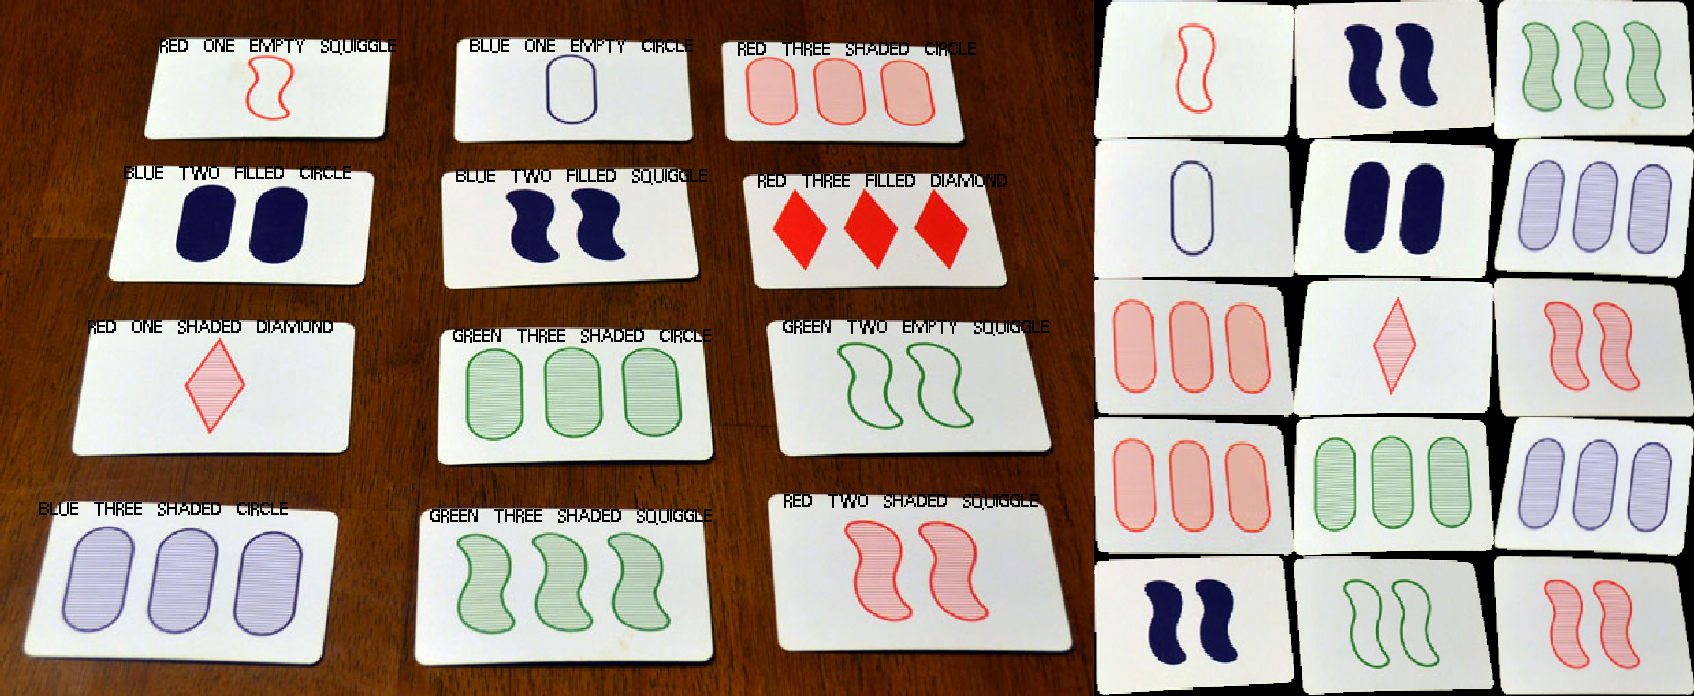
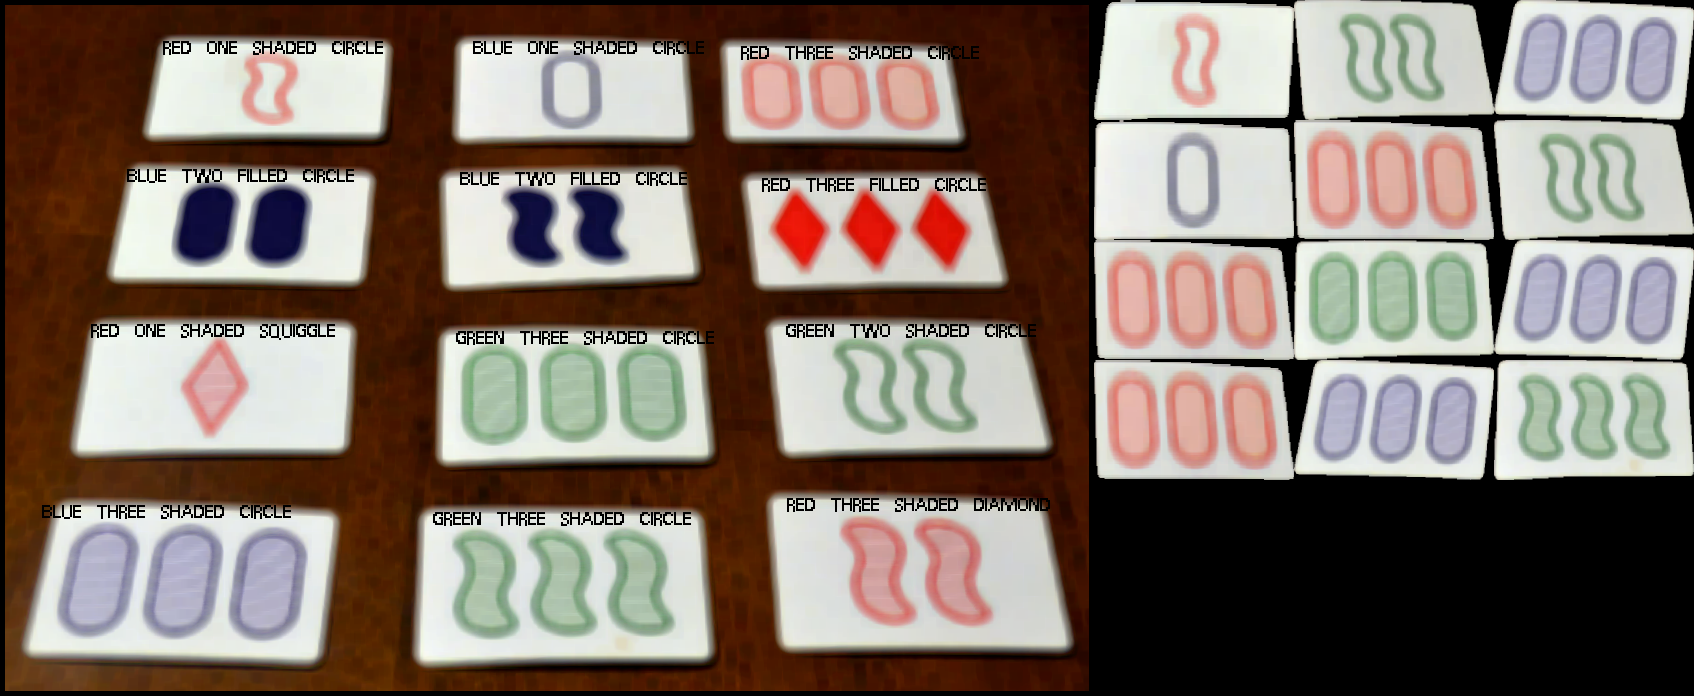
Deleted old files added convolutions

diff --git a/src/highlight.java b/src/highlight.java
@@ -1,7 +1,3 @@
-
-import java.util.ArrayList;
-
-
 public class highlight {
     
     final static int totalSize = 762048;
@@ -9,35 +5,20 @@ public class highlight {
     public static int[][] prepareImage(int[][] grid) {
         double divide = Math.sqrt(totalSize / (double) (grid.length * grid[0].length));
         Scaler scaler = new Scaler((int) (divide * grid[0].length), (int) (divide * grid.length));
-        
-        return scaler.processImage(grid);
-    }
 
-    public static int[] getAvgSquare(PixelArea area, short[][] red, short[][] green, short[][] blue){
-        int[] avgCol = {0,0,0};
-        int counted = 0;
+        grid = scaler.processImage(grid);
 
-        for(int y = 0; y < area.pixelSquare[0].length; y++){
-            for(int x = 0; x < area.pixelSquare[0][0].length; x++){
+        short[][][] sg = Image.convert(grid);
 
-                short r = area.pixelSquare[0][y][x];
-                short g = area.pixelSquare[1][y][x];
-                short b = area.pixelSquare[2][y][x];
-
-                if (r + g + b == 0) continue;
-                counted++;
-
-                avgCol[0] += r;
-                avgCol[1] += g;
-                avgCol[2] += b;
-            }
+        short[][] blank = new short[grid.length][grid[0].length];
+                
+        for (int[] loc : ritikareadetection.floodDetection(sg[0], sg[1], sg[2], blank, blank, new int[]{0, 0}, Color.int2sarr(grid[0][0]), new int[]{1, 1, 1}, 1, new int[]{234, 234, 234}, false).pixelLocations) {
+            grid[loc[1]][loc[0]] = Color.rgb2int(100, 100, 100);
         }
 
-        avgCol[0] /= counted;
-        avgCol[1] /= counted;
-        avgCol[2] /= counted;
+        grid = Blurer.applyBlur(grid, 1);
 
-        return avgCol;
+        return grid;
     }
 
     public static int[] getAvg(PixelArea area, short[][] red, short[][] green, short[][] blue){
@@ -112,30 +93,6 @@ public class highlight {
 
 
         return avg/count;
-    }
-
-    public void fillArea(short[][] red, short[][] green, short[][] blue, ArrayList<int[]> pixels, short[] color){
-
-        for(int i = 0; i < pixels.size(); i++){
-
-            int[] loc = pixels.get(i);
-
-            red[loc[1]][loc[0]] = color[0];
-            green[loc[1]][loc[0]] = color[1];
-            blue[loc[1]][loc[0]] = color[2];
-
-        }
-
-
-    }
-
-    public static String getShape(double r, double[] n, String[] s){
-
-        for(int a = 0; a < n.length; a++){
-            if(r < n[a]) return s[a];
-        }
-
-        return s[s.length-1];
     }
 
 }

diff --git a/src/ritikareadetection.java b/src/ritikareadetection.java
@@ -92,6 +92,20 @@ public class ritikareadetection{
     }
 
 
+    /**
+     * Flooding algortithm
+     * @param red a short[][] containing red values of image
+     * @param green a short[][] containing green values of image
+     * @param blue a short[][] containing blue values of image
+     * @param copy a short[][], where results are stored
+     * @param badpixels a short[][] of pixels to avoid in detection
+     * @param start (x, y) loc where to start the algorithim
+     * @param color short[] representing a color for base color
+     * @param colorVariance how much the color can vary before it cuts off
+     * @param neighborSize how many pixels it can "skip over"
+     * @param adjacents i.e diagonal neighbors
+     * @return Pixel area of detected area
+     */
     public static PixelArea floodDetection(short[][] red, short[][] green, short[][] blue, short[][] copy, short[][] badpixels, int[] start, short[] color, int[] colorVariance, int neighborSize, boolean adjacents){
         //note it's not really the flood fill algorithm
         //flood is a good name for what i'm doing thuogh
@@ -235,6 +249,14 @@ public class ritikareadetection{
 
     }
 
+    public static PixelArea floodDetection(short[][] red, short[][] green, short[][] blue, short[][] copy, short[][] badpixels, int[] start, short[] color, int[] colorVariance, int neighborSize, int[] colorRatioMax, boolean adjacents){
+        int[] original = colorRatioMaximum.clone(); // save a copy of original
+        colorRatioMaximum = colorRatioMax; // set to current presets
+        PixelArea tr = floodDetection(red, green, blue, copy, badpixels, start, color, colorVariance, neighborSize, adjacents); // get results
+        colorRatioMaximum = original; // return to default
+        return tr;
+    }
+
 
     public static ArrayList<int[]> getNeighbors(int[] loc, int size, boolean adjacent){
 
@@ -290,10 +312,7 @@ public class ritikareadetection{
 
 class PixelArea{
 
-    int minX;
-    int minY;
-    int maxX;
-    int maxY;
+    int minX, minY, maxX, maxY;
     short[][][] pixelSquare;
     ArrayList<int[]> pixelLocations;
     ArrayList<int[]> pixelSquareLocations;

diff --git a/src/Card.java b/src/Card.java
@@ -138,10 +138,9 @@ public class Card {
     public Fill getFill() {
         int[] avg = highlight.getAvg(cardArea, baseGrid[0], baseGrid[1], baseGrid[2]);
 
-
         if (internal.size() == 0) return Fill.EMPTY;
         PixelArea area1 = internal.get(0);
-        removeEdges(area1);
+        removeEdges(area1, 6);
 
         double dist = highlight.getAvgDistance(area1, baseGrid[0], baseGrid[1], baseGrid[2], avg, 6);
 
@@ -182,7 +181,7 @@ public class Card {
 
     public void draw(int[][] grid) {
         baseGrid = Image.convert(grid);
-        Renderer.drawText(grid, toString(), cardArea.minX, cardArea.minY, Color.rgb2int(0, 0, 0)); //(cardArea.minX + cardArea.maxX) / 2, (cardArea.minY + cardArea.maxY) / 2, Color.rgb2int(0, 0, 0));
+        Renderer.drawText(grid, toString(), cardArea.minX, cardArea.minY, Color.BLACK);
     }
 
     private static Fill getFillThreshold(double r){
@@ -204,8 +203,8 @@ public class Card {
         return Shape.values()[Shape.values().length-1];
     }
 
-    private static void removeEdges(PixelArea area) {
-        for(int r = 0; r < 6; r++){
+    private static void removeEdges(PixelArea area, int pixelsToRemove) {
+        for(int r = 0; r < pixelsToRemove; r++){
 
             area.pixelSquare = removeedges.removeEdges(area.pixelSquare[0],area.pixelSquare[1],area.pixelSquare[2] );
 

diff --git a/src/Main.java b/src/Main.java
@@ -15,7 +15,9 @@ public class Main {
         //identify("inputs/input3.png", "outputs/output3.png");
         //identify("inputs/input4.jpeg", "outputs/output4.png", true);
         //identify("inputs/input5.jpeg", "outputs/output5.png");
-        identify("inputs/input6.jpeg", "outputs/output6.png", true);
+        //identify("inputs/input6.jpeg", "outputs/output6.png", true);
+        identify("inputs/setGame1.png", "outputs/outputGame1.png");
+        //identify("inputs/setGame2.png", "outputs/outputGame2.png");
 
         System.out.println("finished with 0 errors!");
     }
@@ -25,7 +27,6 @@ public class Main {
 
         // get and prepare image
         Image input = new Image(inputPath);
-
         int[][] grid = highlight.prepareImage(input.getGrid());
 
         // find, print, and draw cards to grid
@@ -96,14 +97,12 @@ public class Main {
     public static void drawCard(Card card, int[][] grid, int xp, int yp, int sx, int sy){
         short[][][] square  = card.cardArea.pixelSquare;
 
-
         int[][] squareConverted = Image.convert(square);
 
         int cardw = sx;
         int cardh = sy;
 
         Scaler scaleCard = new Scaler(cardw, cardh);
-
         int[][] squareScaled = scaleCard.processImage(squareConverted);
 
         for(int y = 0; y < cardh; y++){

diff --git a/src/Blurer.java b/src/Blurer.java
@@ -1,0 +1,30 @@
+public class Blurer {
+    public static int[][] applyBlur(int[][] original, int blurSize) {
+        int[][] output = new int[original.length][original[0].length];
+        blurSize = blurSize * 2 + 1;
+
+        int krbs = blurSize / 2, kcbs = blurSize / 2; // k(r/c)bs = kernel row/column border size
+
+        for (int r = krbs; r < original.length - krbs; r++) {
+            for (int c = kcbs; c < original[r].length - kcbs; c++) {
+                output[r][c] = applyBlur(original, r, c, blurSize, krbs, kcbs);
+            }
+        }
+
+        return output;
+    }
+
+    private static int applyBlur(int[][] original, int r, int c, int blurSize, int krbs, int kcbs) {
+        int accumulated = 0;
+        Integer count = 0;
+        for (int i = 0; i < blurSize; i++) {
+            for (int j = 0; j < blurSize; j++) {
+                accumulated = Color.averageColors(accumulated, original[r - krbs + i][c - kcbs + j], count);
+                count++;
+            }
+        }
+
+        // clamp
+        return accumulated;
+    }
+}

diff --git a/src/Color.java b/src/Color.java
@@ -1,9 +1,18 @@
 public class Color {
 
     private final static double purpleThreshold = 0.2;
+    public final static int BLACK = 0x000000;
 
     public static int rgb2int(int r, int g, int b) {
         return (0xFF << 24) + (r << 16) + (g << 8) + (b);
+    }
+
+    public static int sarr2int(short[] c) {
+        return rgb2int(c[0], c[1], c[2]);
+    }
+
+    public static short[] int2sarr(int c) {
+        return new short[]{(short) getRed(c), (short) getGreen(c), (short) getBlue(c)};
     }
 
     public static int getRed(int rgb) {
